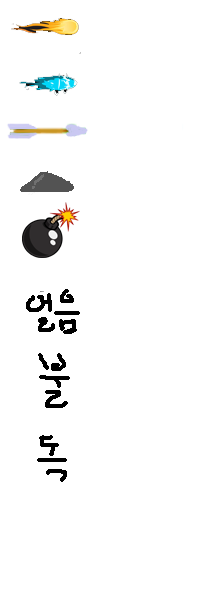
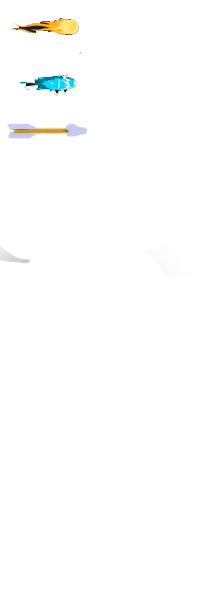
성채력 이미지추가

Changed region(s): [[0.0, 0.27, 0.39, 0.45], [0.12, 0.48, 0.39, 0.69], [0.18, 0.72, 0.33, 0.81]]

diff --git a/2D게임/Inventory.py b/2D게임/Inventory.py
@@ -9,8 +9,7 @@ class inventory:
     def __init__(self):
         self.image = load_image('ui\\inventory.png')
         self.font = load_font('font\\godoMaum.ttf', 50)
-        self.item = {'fire_arrow': 255, 'ice_arrow': 100, 'arrow': 100, 'powder': 100, 'bomb': 100, 'water': 100, 'fire': 100, 'poison': 100}
-        pass
+        self.item = {'fire_arrow': 255, 'ice_arrow': 100, 'arrow': 100}
 
     def insert(self, data):
         self.item[data] += 1
@@ -26,16 +25,10 @@ class inventory:
         pass
 
     def draw(self):
-
         self.image.draw(900, 300)
         self.font.draw(900, 570, ' %3d' % self.item['fire_arrow'], (color(255 - self.item['fire_arrow']), 0, 0))
         self.font.draw(900, 520, ' %3d' % self.item['ice_arrow'], (color(255 - self.item['ice_arrow']), 0, 0))
         self.font.draw(900, 470, ' %3d' % self.item['arrow'], (color(255 - self.item['arrow']), 0, 0))
-        self.font.draw(900, 420, ' %3d' % self.item['powder'], (color(255 - self.item['powder']), 0, 0))
-        self.font.draw(900, 370, ' %3d' % self.item['bomb'], (color(255 - self.item['bomb']), 0, 0))
-        self.font.draw(900, 320, ' %3d' % self.item['water'], (color(255 - self.item['water']), 0, 0))
-        self.font.draw(900, 270, ' %3d' % self.item['fire'], (color(255 - self.item['fire']), 0, 0))
-        self.font.draw(900, 220, ' %3d' % self.item['poison'], (color(255 - self.item['poison']), 0, 0))
         pass
 
     def handle_event(self, event):

diff --git a/2D게임/boy.py b/2D게임/boy.py
@@ -210,7 +210,6 @@ class Boy:
         self.cur_state.draw(self)
 
     def handle_event(self, event):
-
         if event.type == SDL_MOUSEBUTTONDOWN:
             if event.button == SDL_BUTTON_LEFT:
                 self.click_time = time.time() * 30
@@ -229,15 +228,6 @@ class Boy:
                         return
                     elif self.move_mouse_y >= 450 and self.move_mouse_y <= 500:
                         self.bullet_type = 'arrow'
-                        return
-                    elif self.move_mouse_y >= 400 and self.move_mouse_y <= 450:
-                        self.bullet_type = 'fire_arrow'
-                        return
-                    elif self.move_mouse_y >= 300 and self.move_mouse_y <= 350:
-                        self.bullet_type = 'fire_arrow'
-                        return
-                    elif self.move_mouse_y >= 250 and self.move_mouse_y <= 300:
-                        self.bullet_type = 'fire_arrow'
                         return
         if event.button == SDL_BUTTON_LEFT and event.type == SDL_MOUSEBUTTONUP:
             self.click_time = time.time() * 30 - self.click_time

diff --git a/2D게임/Monster.py b/2D게임/Monster.py
@@ -183,7 +183,7 @@ next_state_table = {
     Attacked_State: {FIRE_ATTACK: Fire_Attacked_State, ICE_ATTACK: Ice_Attacked_State,
                      ARROW_ATTACK: Attacked_State, IDLE: RunState, ATTACK: RunState},
     Attack_State: {FIRE_ATTACK: Fire_Attacked_State, ICE_ATTACK: Ice_Attacked_State,
-                     ARROW_ATTACK: Attacked_State, IDLE: RunState, ATTACK: RunState}
+                   ARROW_ATTACK: Attacked_State, IDLE: RunState, ATTACK: RunState}
 }
 
 
@@ -196,7 +196,7 @@ class Slime:
             Slime.image = load_image('Monster1.png')
 
         self.HP = hp
-        self.start_HP = hp
+        self.start_HP = hp + 10
         self.move_type = type
         self.dir = 1
         self.velocity = 0

diff --git a/2D게임/grass.py b/2D게임/grass.py
@@ -16,8 +16,10 @@ def draw_Map(image, map_x, map_y, Map_type):
 class Grass:
     def __init__(self):
         self.image = load_image('Mdesert.png')
+        self.castle_hp = 500
         with open('Map.txt', 'r') as self.file:
             self.line = np.loadtxt('Map.txt', delimiter=' ')
+
     def draw(self):
         map_x, map_y = 0, 0
         for i in self.line:
@@ -26,6 +28,7 @@ class Grass:
                 map_x = map_x + 1
             map_x = 0
             map_y = map_y +1
+
 
     def update(self):
         pass

diff --git a/2D게임/main_state.py b/2D게임/main_state.py
@@ -67,7 +67,6 @@ def enter():
     game_world.add_object(Inventory, 0)
     game_world.add_object(boy, 1)
     game_world.add_object(boy1, 1)
-
     global Monster
 
 
